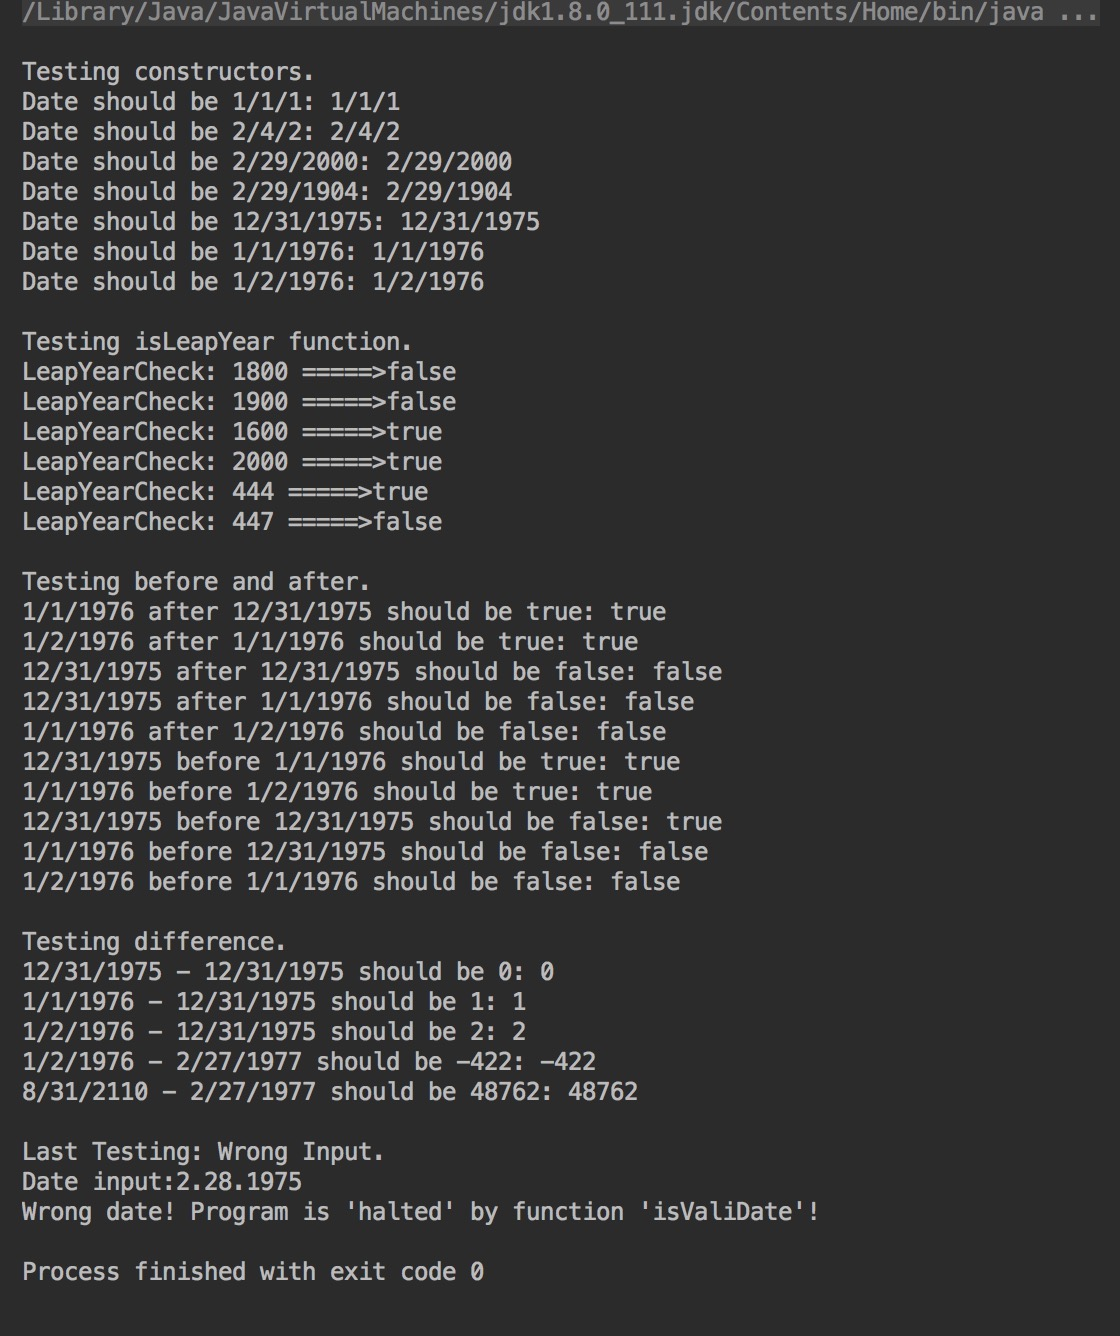
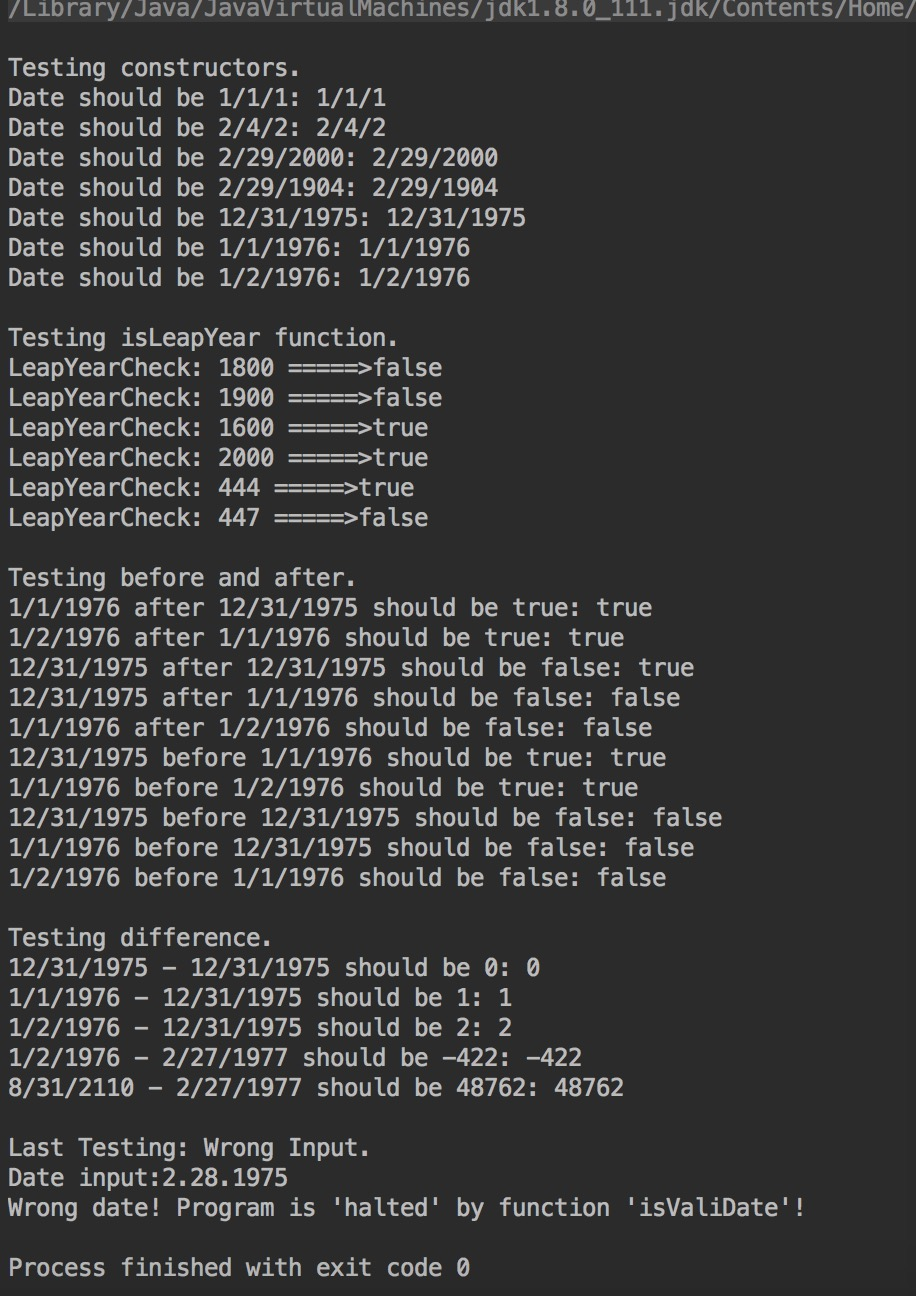
missing one corner case
update isBefore() for the case:this.day=d.day

Changed region(s): [[0.0, 0.0, 1.0, 0.9877], [0.5502, 0.8951, 0.8559, 0.9568]]

diff --git a/hw2/Date.java b/hw2/Date.java
@@ -143,7 +143,7 @@ public class Date {
      * @return true if and only if this Date is before d.
      */
     public boolean isBefore(Date d) {
-        if(difsinceZero(this)>difsinceZero(d)){
+        if(difsinceZero(this)>=difsinceZero(d)){
             return false;
         }else{
             return true;
